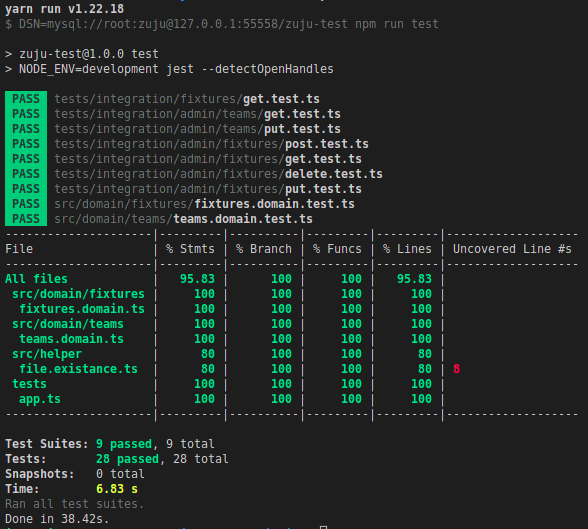
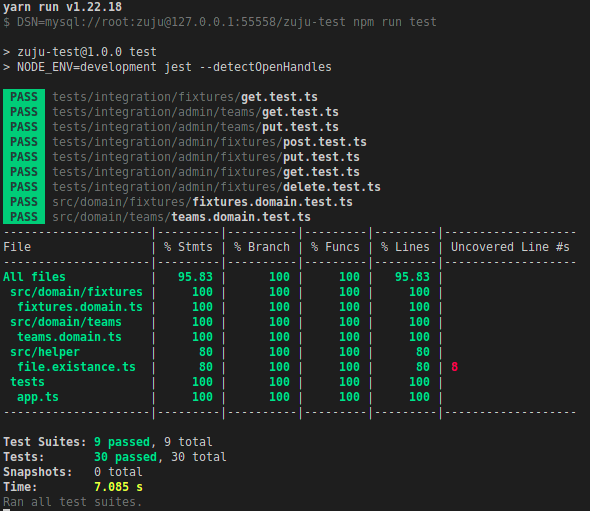
code submission fixed

diff --git a/tests/integration/fixtures/get.test.ts b/tests/integration/fixtures/get.test.ts
@@ -32,6 +32,20 @@ describe('GET /fixtures', () => {
       expect(res.body.data.length).toBe(15);
       expect(res.body.pagination.page).toBe(1);
     });
+    test('should response in page 1 number with 30 size', async () => {
+      const res = await request(app).get(`/fixtures?size=30&page=1`);
+      expect(res.status).toBe(200);
+      expect(res.body.data).toBeDefined();
+      expect(res.body.data.length).toBe(15);
+      expect(res.body.pagination.page).toBe(1);
+    });
+    test('should response still in page 1 and 30 per page', async () => {
+      const res = await request(app).get(`/fixtures?size=30&page=2`);
+      expect(res.status).toBe(200);
+      expect(res.body.data).toBeDefined();
+      expect(res.body.data.length).toBe(0);
+      expect(res.body.pagination.page).toBe(2);
+    });
   });
 });
 

diff --git a/src/infrastructure/sql/fixtures/sql/fixtures.sql.provider.ts b/src/infrastructure/sql/fixtures/sql/fixtures.sql.provider.ts
@@ -102,8 +102,8 @@ export default class FixturesSQLProvider {
     const data: Fixtures[] = await Promise.all(fixtures);
     return {
       pagination: {
-        page,
-        size,
+        page: +page,
+        size: +size,
         total_size,
         total_page: Math.ceil(total_size / size),
       },
